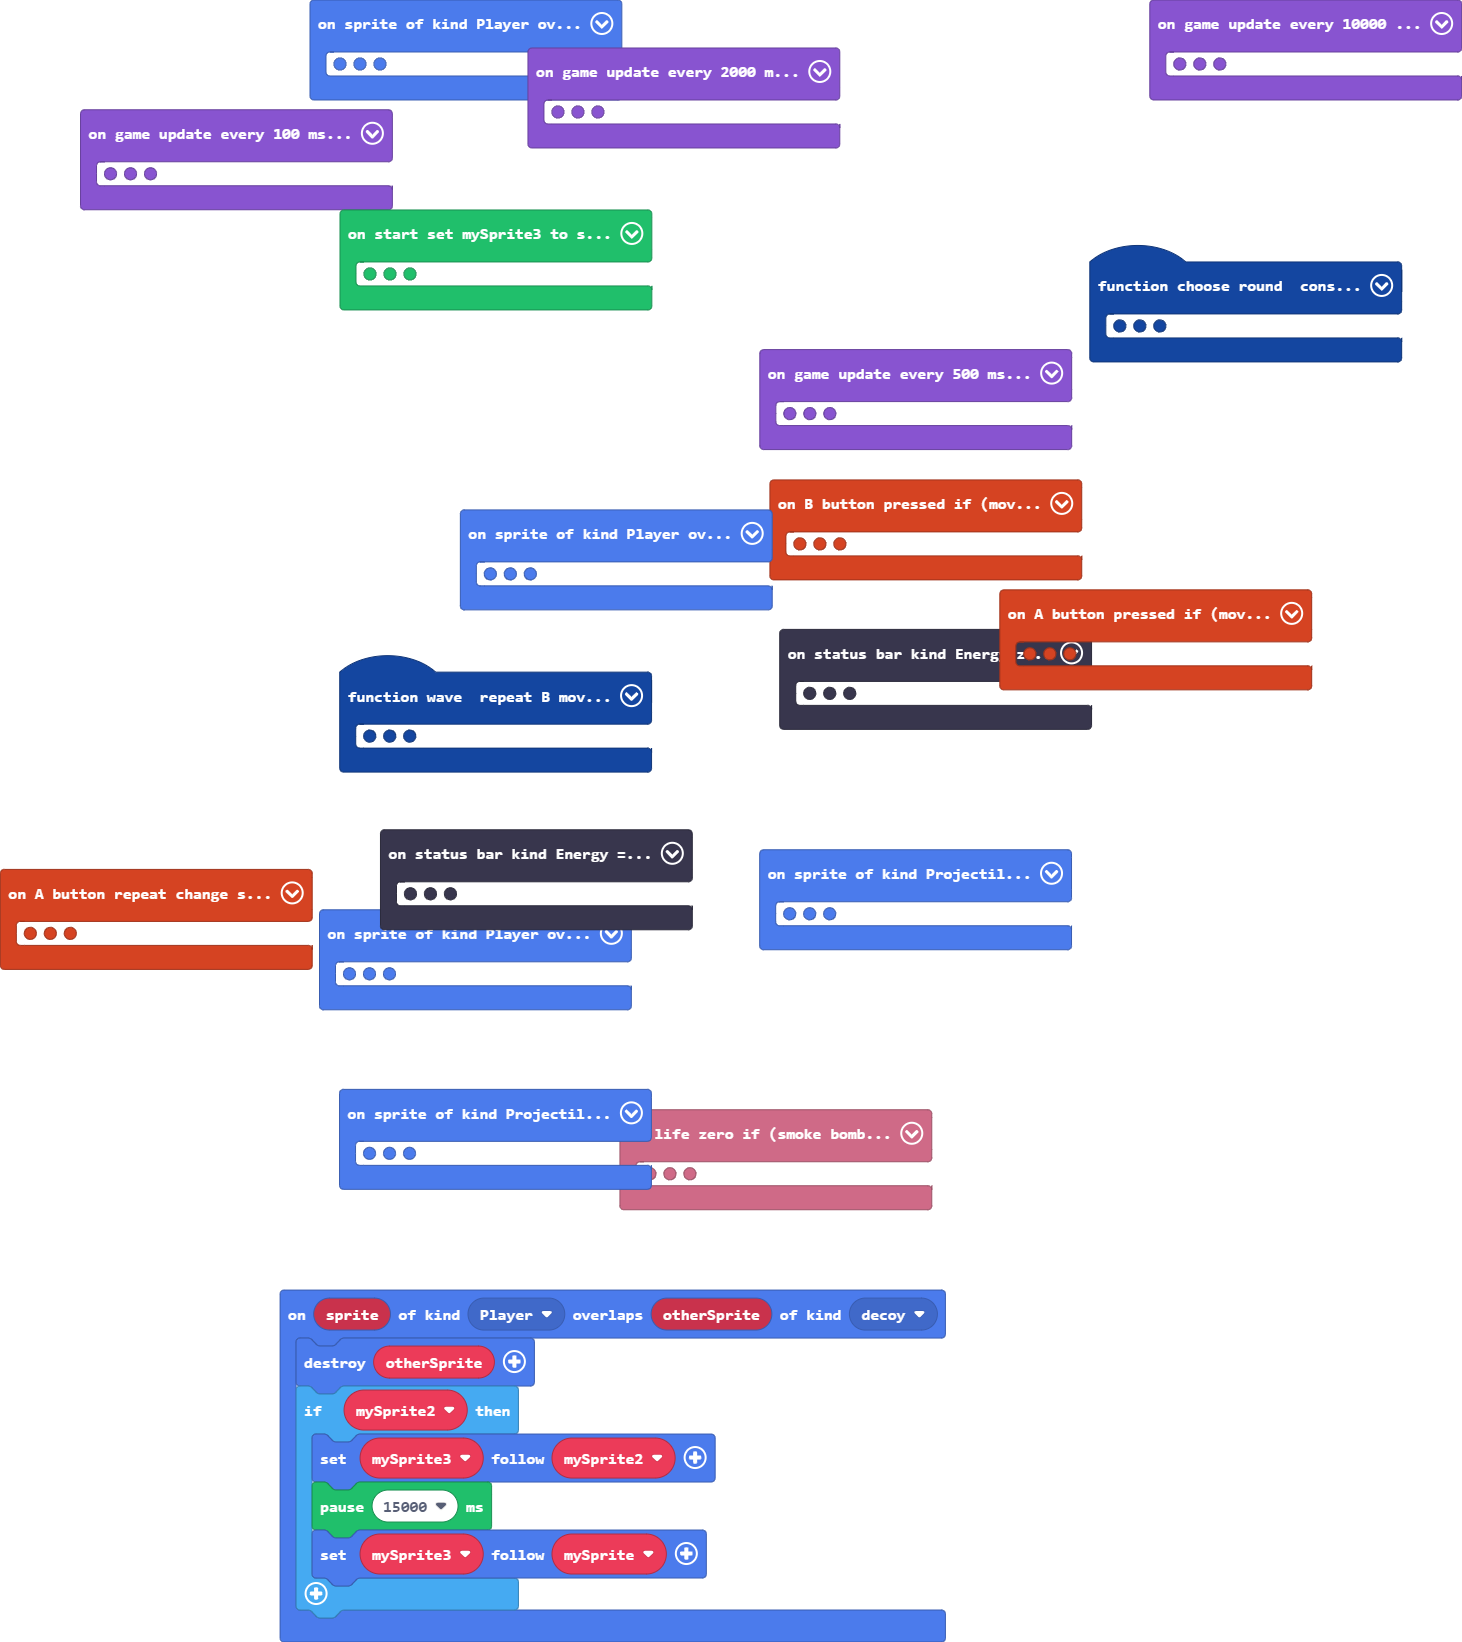
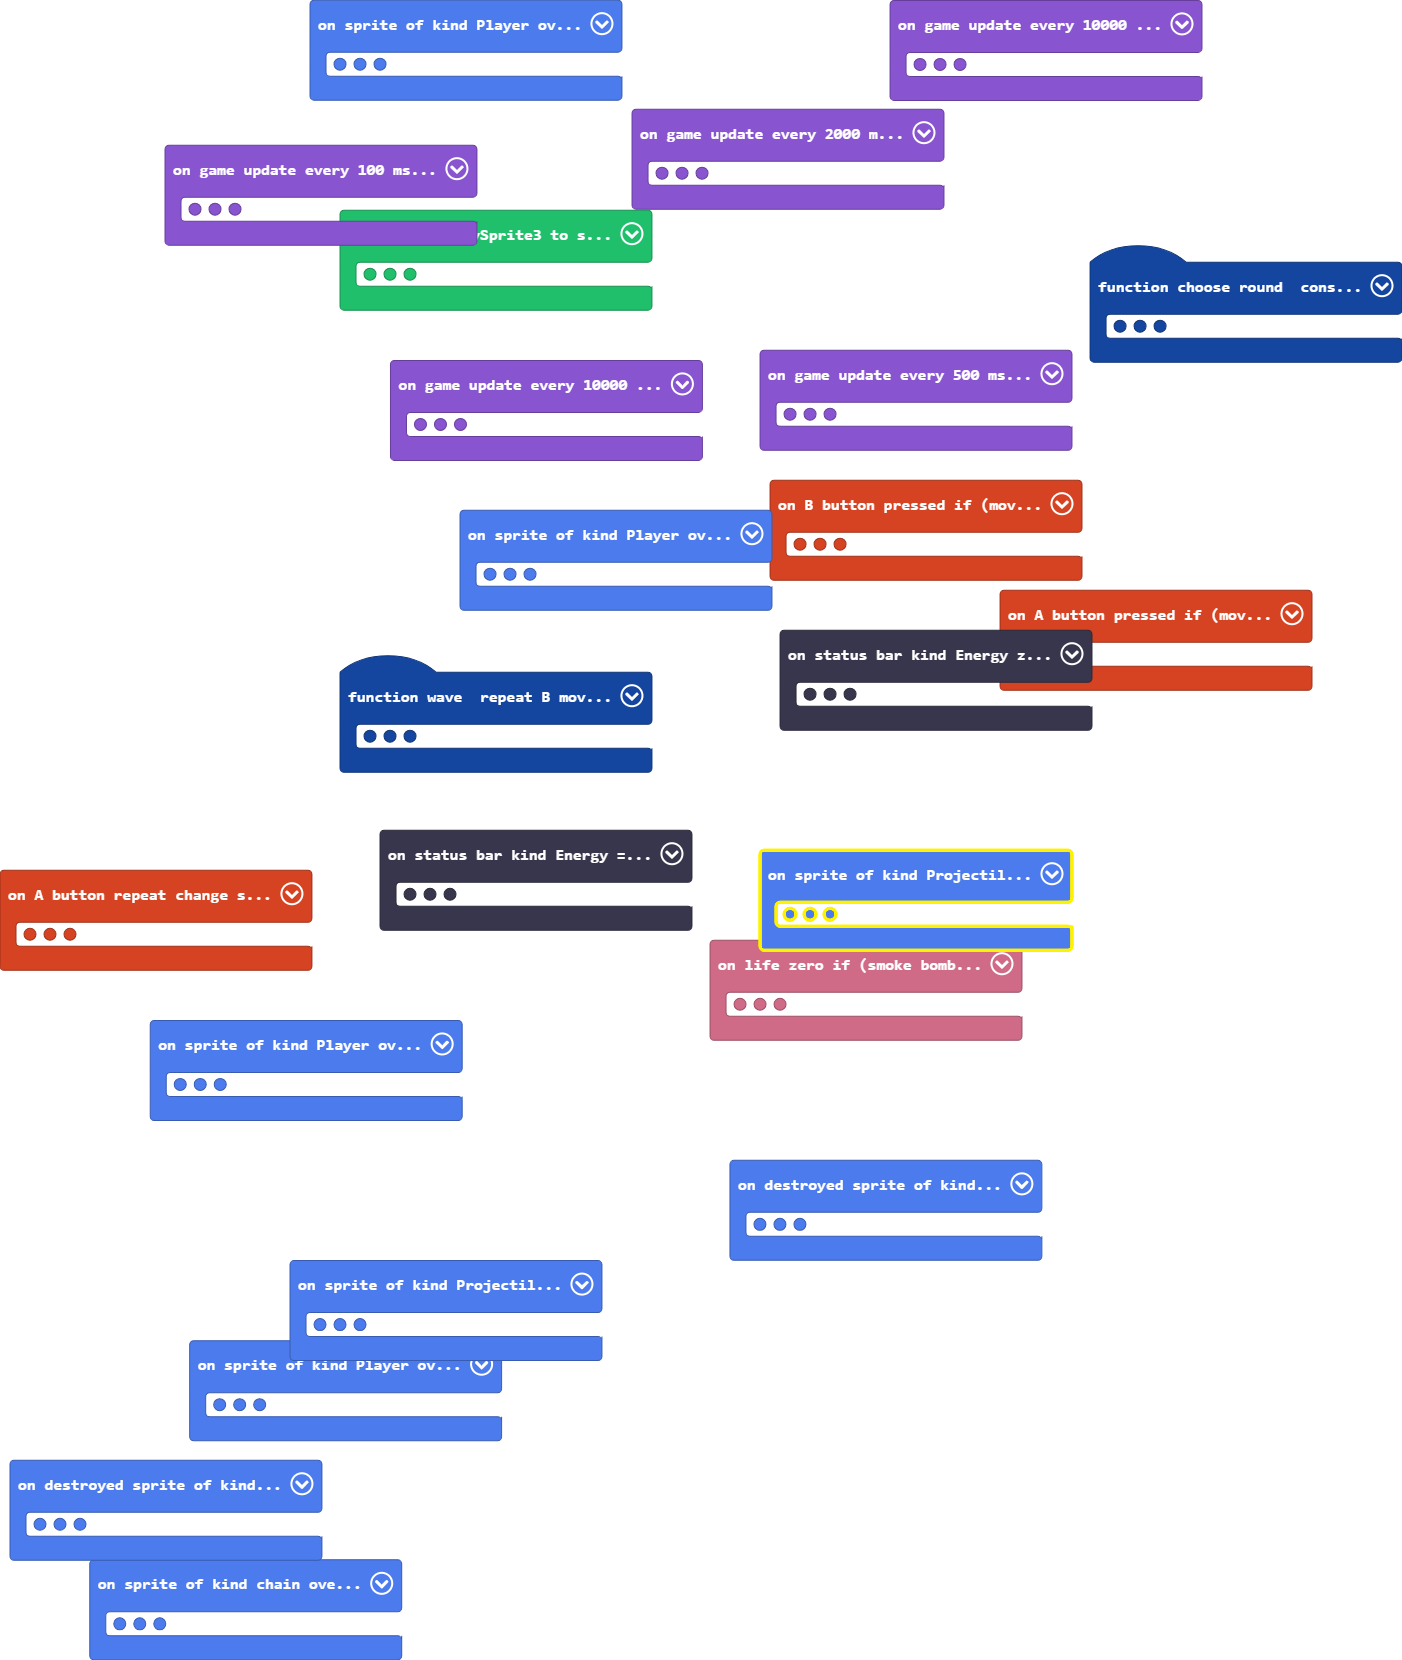
Update pxt.json, main.blocks, main.ts

Changed region(s): [[0.0, 0.3727, 0.7668, 1.0], [0.276, 0.1242, 1.0, 0.4659], [0.0307, 0.0, 1.0, 0.1864]]

diff --git a/main.ts b/main.ts
@@ -28,6 +28,7 @@ sprites.onOverlap(SpriteKind.Projectile, SpriteKind.chain, function (sprite, oth
         . . . . . . . . . . . . . . . . 
         `, otherSprite, sprite.vx + 5, sprite.vy + 5)
     sprites.destroy(otherSprite)
+    sprites.destroy(sprite)
 })
 controller.A.onEvent(ControllerButtonEvent.Pressed, function () {
     if (move_allowed == true) {
@@ -54,6 +55,30 @@ controller.A.onEvent(ControllerButtonEvent.Pressed, function () {
         }
     }
 })
+sprites.onOverlap(SpriteKind.chain, SpriteKind.collectable, function (sprite, otherSprite) {
+    projectile4 = sprites.createProjectileFromSprite(img`
+        . . . . . . . . . . . . . . . . 
+        . . . . . . . . . . . . . . . . 
+        . . . . . . . . b . . . . . . . 
+        . . . . . . . b b . . . . . . . 
+        . . . . . . . c b . . . . . . . 
+        . . . . . . b c b . . . . . . . 
+        . . b b b b b b b b . . . . . . 
+        . . . b c c b . b c c b . . . . 
+        . . . . b b b b b b b b b . . . 
+        . . . . . . b c b . . . . . . . 
+        . . . . . . b c . . . . . . . . 
+        . . . . . . b b . . . . . . . . 
+        . . . . . . b . . . . . . . . . 
+        . . . . . . . . . . . . . . . . 
+        . . . . . . . . . . . . . . . . 
+        . . . . . . . . . . . . . . . . 
+        `, otherSprite, 0 - sprite.vx, 0 - sprite.vy)
+    sprites.destroy(otherSprite)
+    pause(500)
+    sprites.destroyAllSpritesOfKind(SpriteKind.chain)
+    projectile4.setVelocity(0, 0)
+})
 controller.A.onEvent(ControllerButtonEvent.Repeated, function () {
     statusbar.value += -1
     projectile2 = sprites.createProjectileFromSprite(img`
@@ -76,6 +101,27 @@ controller.A.onEvent(ControllerButtonEvent.Repeated, function () {
         `, mySprite, randint(-100, 100), randint(-100, 100))
     tiles.placeOnRandomTile(projectile2, sprites.castle.tilePath5)
 })
+sprites.onDestroyed(SpriteKind.chain, function (sprite) {
+    pause(2000)
+    projectile4 = sprites.createProjectileFromSprite(img`
+        . . . . . . . . . . . . . . . . 
+        . . . . . . . . . . . . . . . . 
+        . . . . . . . . b . . . . . . . 
+        . . . . . . . b b . . . . . . . 
+        . . . . . . . c b . . . . . . . 
+        . . . . . . b c b . . . . . . . 
+        . . b b b b b b b b . . . . . . 
+        . . . b c c b . b c c b . . . . 
+        . . . . b b b b b b b b b . . . 
+        . . . . . . b c b . . . . . . . 
+        . . . . . . b c . . . . . . . . 
+        . . . . . . b b . . . . . . . . 
+        . . . . . . b . . . . . . . . . 
+        . . . . . . . . . . . . . . . . 
+        . . . . . . . . . . . . . . . . 
+        . . . . . . . . . . . . . . . . 
+        `, sprite, sprite.vx, sprite.vy)
+})
 function wave () {
     for (let index = 0; index < B_move; index++) {
         projectile = sprites.createProjectileFromSprite(img`
@@ -97,7 +143,6 @@ function wave () {
             . . . . . . . . . . . . . . . . 
             `, mySprite, randint(-50, 50), randint(-50, 50))
         statusbar.value += -1
-        pause(randint(0, 1))
     }
 }
 info.onLifeZero(function () {
@@ -109,10 +154,17 @@ info.onLifeZero(function () {
         game.gameOver(false)
     }
 })
-sprites.onOverlap(SpriteKind.Projectile, SpriteKind.droid, function (sprite, otherSprite) {
+sprites.onOverlap(SpriteKind.Player, SpriteKind.decoy, function (sprite, otherSprite) {
     sprites.destroy(otherSprite)
-    amount_of_defeated_troops += 1
-    info.changeScoreBy(1)
+    if (mySprite2) {
+        mySprite3.follow(mySprite2)
+        pause(15000)
+        mySprite3.follow(mySprite)
+    }
+})
+sprites.onOverlap(SpriteKind.Projectile, SpriteKind.droid, function (sprite, otherSprite) {
+    sprites.destroy(otherSprite, effects.fire, 500)
+    sprites.destroy(sprite)
 })
 statusbars.onStatusReached(StatusBarKind.Energy, statusbars.StatusComparison.EQ, statusbars.ComparisonType.Fixed, 100, function (status) {
     move_allowed = true
@@ -249,25 +301,20 @@ function choose_round () {
     }
     return round
 }
-sprites.onOverlap(SpriteKind.Player, SpriteKind.decoy, function (sprite, otherSprite) {
-    sprites.destroy(otherSprite)
-    if (mySprite2) {
-        mySprite3.follow(mySprite2)
-        pause(15000)
-        mySprite3.follow(mySprite)
-    }
-})
 sprites.onOverlap(SpriteKind.Player, SpriteKind.chain, function (sprite, otherSprite) {
     sprite.setVelocity(otherSprite.vx, otherSprite.vy)
+    sprites.destroy(otherSprite)
+})
+sprites.onDestroyed(SpriteKind.droid, function (sprite) {
+    amount_of_defeated_troops += 1
+    info.changeScoreBy(1)
 })
 statusbars.onZero(StatusBarKind.Energy, function (status) {
     move_allowed = false
 })
 sprites.onOverlap(SpriteKind.Player, SpriteKind.droid, function (sprite, otherSprite) {
     sprites.destroy(otherSprite)
-    amount_of_defeated_troops += 1
     info.changeLifeBy(-1)
-    info.changeScoreBy(1)
     sprite.setVelocity(otherSprite.vx, otherSprite.vy)
 })
 controller.B.onEvent(ControllerButtonEvent.Pressed, function () {
@@ -283,8 +330,8 @@ sprites.onOverlap(SpriteKind.Player, SpriteKind.collectable, function (sprite, o
 })
 let mySprite4: Sprite = null
 let mySprite5: Sprite = null
-let mySprite2: Sprite = null
 let round = 0
+let mySprite2: Sprite = null
 let projectile: Sprite = null
 let projectile2: Sprite = null
 let projectile5: Sprite = null
@@ -334,6 +381,7 @@ let mySprite7 = sprites.create(img`
     . . . 4 . . . . . . . . . . . . 
     . . . 4 . . . . . . . . . . . . 
     `, SpriteKind.decoy)
+tiles.placeOnRandomTile(mySprite7, assets.tile`myTile10`)
 mySprite3.setVelocity(randint(-50, 50), randint(-50, 50))
 move_allowed = true
 mySprite = sprites.create(img`
@@ -418,6 +466,27 @@ game.onUpdateInterval(10000, function () {
         . . . . . . . . . . . . . . . . 
         `, SpriteKind.collectable)
     tiles.placeOnRandomTile(mySprite4, sprites.castle.tilePath5)
+})
+game.onUpdateInterval(10000, function () {
+    mySprite4 = sprites.create(img`
+        . . . . . . . . . . . . . . . . 
+        . . . . . . . . . . . . . . . . 
+        . . . . . . . . 8 . . . . . . . 
+        . . . . . . . 8 8 . . . . . . . 
+        . . . . . . . 6 8 . . . . . . . 
+        . . . . . . 8 6 8 . . . . . . . 
+        . . . . . 8 9 9 9 8 . . . . . . 
+        . . . 8 6 6 9 . 9 6 6 8 . . . . 
+        . . 8 8 8 8 9 9 9 8 8 8 8 . . . 
+        . . . . . . 8 6 8 . . . . . . . 
+        . . . . . . 8 6 . . . . . . . . 
+        . . . . . . 8 8 . . . . . . . . 
+        . . . . . . 8 . . . . . . . . . 
+        . . . . . . . . . . . . . . . . 
+        . . . . . . . . . . . . . . . . 
+        . . . . . . . . . . . . . . . . 
+        `, SpriteKind.collectable)
+    tiles.placeOnRandomTile(mySprite4, assets.tile`myTile10`)
 })
 game.onUpdateInterval(2000, function () {
     choose_round()
